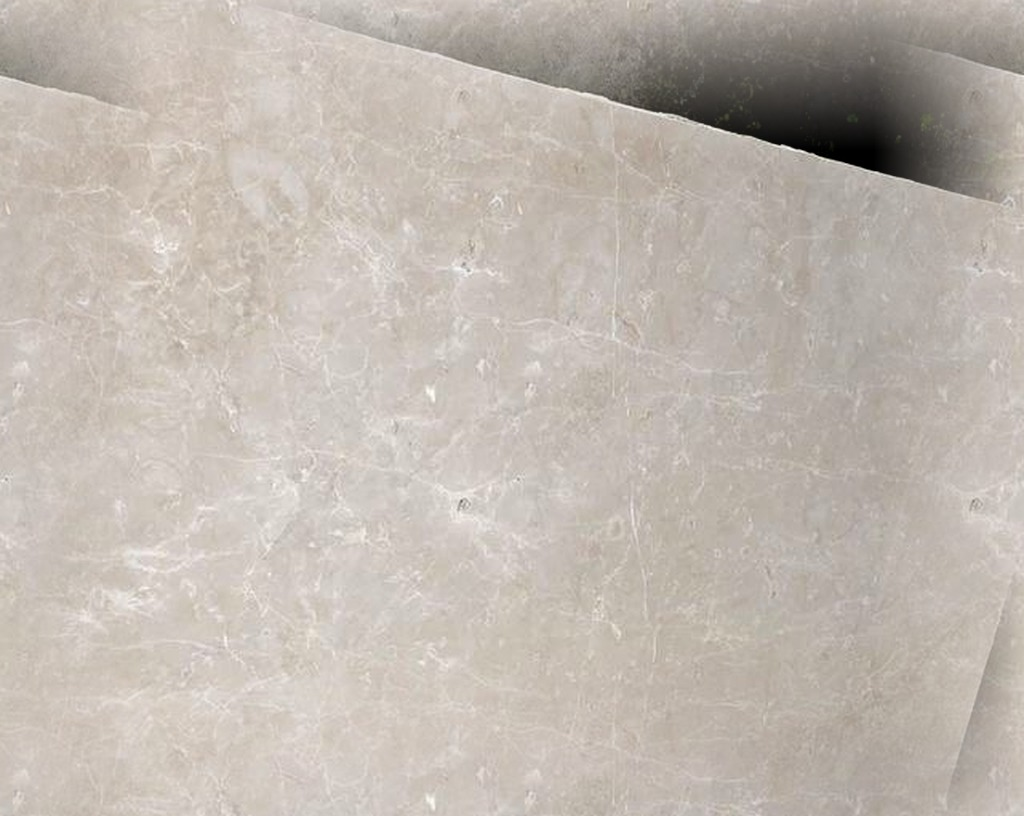
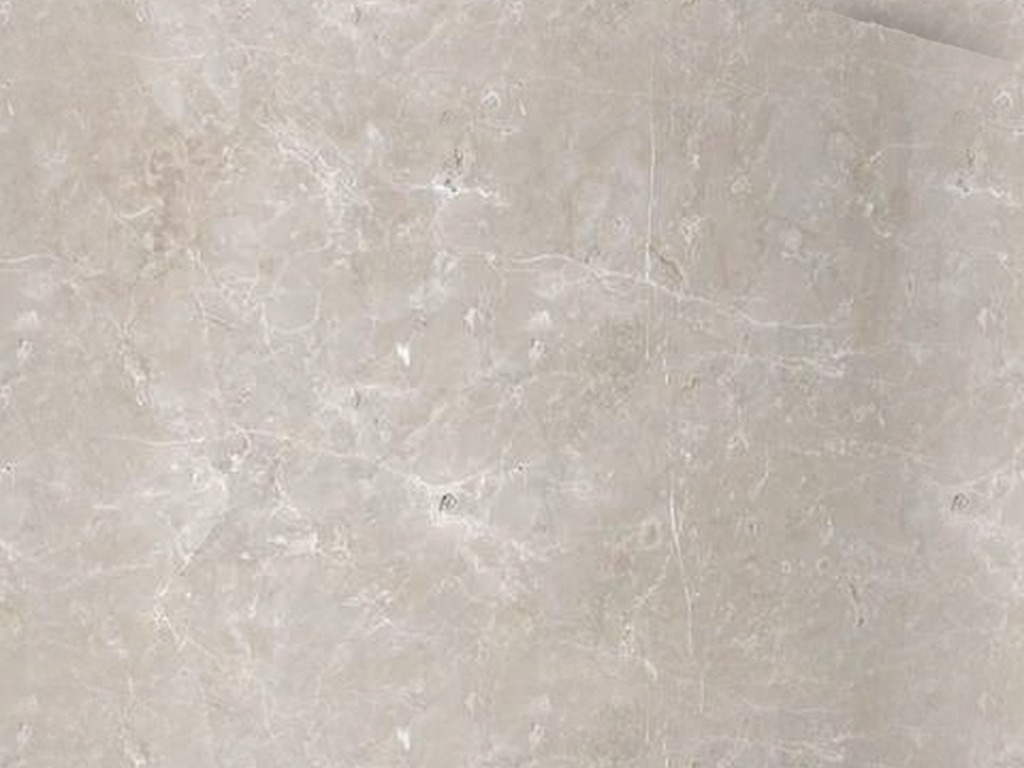
Walkthrough: the vanity as one stone block, the burl ends lower
Per the owner's reference: the 3 ft beige-gold bank is a single block
from the floor to the 33 in top, standing proud of the ends, its drawers
only fine joints; no marble elsewhere. The two ends are the dark burl,
3 in lower, with their own tops, floating over a shadow-gap kick. Vessel
bowl on the tap line, wall spout and mixer; a mirror (still to brief)
floating on a warm halo.

diff --git a/tools/walk/real.py b/tools/walk/real.py
@@ -349,28 +349,34 @@ tvf = dbox("tv_frame", cx - 622, yP + pT / 2 - 2, 842, cx + 622, yP + pT / 2 + 4
 # ── the bathroom, as far as it is known: its stone, and the vanity (scheme C, AST-DR-021) on the door wall,
 # between the door and the pier, facing into the room ─────────────────────────
 M_CHROME = flat("chrome", (0.9, 0.9, 0.92), 0.06, 1.0)
-M_BURL_DARK = veneer("burl_dark", 0.12, 1.0, 0.36, 0.9, "burl_diva.jpg", 0.75)                 # the 9292 burl, darkened
+M_BURL_DARK = veneer("burl_dark", 0.12, 1.0, 0.22, 0.75, "burl_diva.jpg", 0.75)                 # the 9292 burl, darkened
 for o_ in list(sc.objects):
     if o_.type == "MESH" and o_.name == "floor": pass
 bfl = dbox("bath_floor", BA["x0"], BA["s0"], 0.2, BA["x1"], BA["s1"], 1.2, M_BEIGE)
 pxr = BA["x1"] - PIER["east"]; pxl = pxr - PIER["w"]
 VX1 = pxl; VX0 = VX1 - 1524; VS1 = BA["s1"]; VS0 = VS1 - 610                            # 5 ft × 2 ft, against the pier
 TOPZ, SLAB = 838, 38
-# the ends: pull-outs in the dark burl, 1 ft 6 in at the pier end (the vanity's left, facing it) and 6 in at the door end
-for (x0_, x1_, nm) in ((VX1 - 457, VX1, "L"), (VX0, VX0 + 152, "R")):
-    e = dbox(f"van_end{nm}", x0_ + 2, VS0 + 25, 90, x1_ - 2, VS1, TOPZ - SLAB, M_BURL_DARK); bevel(e, 0.003, 2)
-    dbox(f"van_kick{nm}", x0_ + 2, VS0 + 70, 0, x1_ - 2, VS1, 90, M_DARK)
-    bpy.ops.mesh.primitive_cylinder_add(vertices=24, radius=0.02, depth=0.012, location=P((x0_ + x1_) / 2, VS0 + 22, TOPZ - SLAB - 120))
+# scheme C as the owner wants it read (their reference): the 3 ft marble bank is ONE stone block, floor to the
+# 33 in top, standing 20 proud of the ends; its drawers show only as fine joints. Marble nowhere else: the two ends
+# are the dark burl, 3 in lower, with their own veneer tops, floating over a shadow-gap kick.
+bx0, bx1 = VX1 - 457 - 914, VX1 - 457; AXx = bx0 + 457; BF = VS0 - 20                    # the block's front, proud
+blk = dbox("van_block", bx0, BF, 0, bx1, VS1, TOPZ, M_BEIGE); bevel(blk, 0.0025, 2)
+def joint(name, x0_, z0_, x1_, z1_):
+    dbox(name, x0_, BF - 0.6, z0_, x1_, BF + 2, z1_, M_DARK)
+joint("van_j_h1", bx0 + 18, 576, bx1 - 18, 578.5)                                          # over the big drawer
+joint("van_j_h2", bx0 + 18, 762, bx1 - 18, 764.5)                                          # under the top apron
+joint("van_j_h0", bx0 + 18, 38, bx1 - 18, 40.5)
+joint("van_j_v", AXx - 1.2, 578.5, AXx + 1.2, 762)                                         # the top pair splits on the tap line
+for xx in (bx0 + 18, bx1 - 20.5): joint(f"van_j_s{xx:.0f}", xx, 38, xx + 2.5, 764.5)
+ETOP = TOPZ - 76
+for (x0_, x1_, nm) in ((bx1, VX1, "L"), (VX0, bx0, "R")):                                  # 1 ft 6 at the pier end, 6 in at the door end
+    e = dbox(f"van_end{nm}", x0_ + 2, VS0, 150, x1_ - 2, VS1, ETOP - 22, M_BURL_DARK); bevel(e, 0.002, 2)
+    t_ = dbox(f"van_etop{nm}", x0_ + 2, VS0 - 4, ETOP - 22, x1_ - 2, VS1, ETOP, M_BURL_DARK); bevel(t_, 0.006, 4)
+    dbox(f"van_kick{nm}", x0_ + 2, VS0 + 90, 0, x1_ - 2, VS1, 150, M_DARK)
+    bpy.ops.mesh.primitive_cylinder_add(vertices=32, radius=0.018, depth=0.01, location=P((x0_ + x1_) / 2, VS0 - 3, ETOP - 110))
     cp = bpy.context.active_object; cp.rotation_euler = (math.pi / 2, 0, 0); setmat(cp, M_CHROME)            # cup pull
-# the 3 ft marble bank, floor to counter, centred on the faucet: two drawers over the big one, all marble fronts
-bx0, bx1 = VX1 - 457 - 914, VX1 - 457
-dbox("van_bank", bx0, VS0 + 25, 0, bx1, VS1, TOPZ - SLAB, M_BEIGE)
-AXx = bx0 + 457
-for (x0_, x1_, z0_, z1_) in ((bx0 + 20, AXx - 3, 591, 762), (AXx + 3, bx1 - 20, 591, 762), (bx0 + 20, bx1 - 20, 38, 566)):
-    f_ = dbox(f"van_df{x0_:.0f}{z0_}", x0_, VS0 + 22, z0_, x1_, VS0 + 26, z1_, M_BEIGE); bevel(f_, 0.002, 2)
-# the top: 18 slab on a sub-top, a mitred 38 apron, oversailing 1 in; the vessel bowl on the tap line; the wall spout
-top = dbox("van_top", VX0 - 5, VS0, TOPZ - SLAB, VX1, VS1, TOPZ, M_BEIGE); bevel(top, 0.004, 3)
-bpy.ops.mesh.primitive_uv_sphere_add(segments=64, ring_count=32, radius=0.203, location=P(AXx, VS0 + 290, TOPZ + 126))
+# the vessel bowl on the block, on the tap line; the wall spout over it
+bpy.ops.mesh.primitive_uv_sphere_add(segments=64, ring_count=32, radius=0.203, location=P(AXx, VS1 - 320, TOPZ + 126))
 bowl = bpy.context.active_object; bowl.name = "van_bowl"; bowl.scale = (1, 1, 0.62)
 bs_ = bmesh.new(); bs_.from_mesh(bowl.data)
 bmesh.ops.bisect_plane(bs_, geom=bs_.verts[:] + bs_.edges[:] + bs_.faces[:], plane_co=(0, 0, 0.05), plane_no=(0, 0, 1), clear_outer=True)
@@ -378,13 +384,23 @@ bs_.to_mesh(bowl.data); bs_.free()
 so_ = bowl.modifiers.new("t", "SOLIDIFY"); so_.thickness = 0.008
 for p_ in bowl.data.polygons: p_.use_smooth = True
 setmat(bowl, flat("ceramic", (0.93, 0.92, 0.89), 0.08, coat=0.6))
-sp = dbox("van_spout", AXx - 18, VS1 - 180, 1110, AXx + 18, VS1, 1140, M_CHROME); bevel(sp, 0.01, 4)
-dbox("van_spout_plate", AXx - 35, VS1 - 6, 1085, AXx + 35, VS1, 1165, M_CHROME)
+sp = dbox("van_spout", AXx - 12, VS1 - 170, 1150, AXx + 12, VS1, 1172, M_CHROME); bevel(sp, 0.008, 4)
+bpy.ops.mesh.primitive_cylinder_add(vertices=32, radius=0.03, depth=0.008, location=P(AXx, VS1 - 4, 1161))
+pl = bpy.context.active_object; pl.rotation_euler = (math.pi / 2, 0, 0); setmat(pl, M_CHROME)
+bpy.ops.mesh.primitive_cylinder_add(vertices=32, radius=0.025, depth=0.03, location=P(AXx + 130, VS1 - 15, 1161))
+hd_ = bpy.context.active_object; hd_.rotation_euler = (math.pi / 2, 0, 0); setmat(hd_, M_CHROME)            # the mixer
+# the mirror (still to brief): the block's width, floating off the wall, a warm light behind it
+mz0, mz1 = 1260, 2060
+dbox("van_mirror", bx0, VS1 - 30, mz0, bx1, VS1 - 24, mz1, M_MIRROR)
+ld = bpy.data.lights.new("van_halo", "AREA"); ld.size, ld.size_y = (bx1 - bx0 - 80) / 1000, 0.6; ld.shape = "RECTANGLE"; ld.energy = 30; warm(ld, 2700)
+lo = bpy.data.objects.new("van_halo", ld); sc.collection.objects.link(lo); lo.location = P(AXx, VS1 - 34, (mz0 + mz1) / 2); lo.rotation_euler = (math.radians(-90), 0, 0)
+lo.visible_camera = False; lo.visible_glossy = False
+ld = bpy.data.lights.new("van_under", "AREA"); ld.size, ld.size_y = (bx1 - bx0 - 40) / 1000, 0.02; ld.shape = "RECTANGLE"; ld.energy = 18; warm(ld, 2700)
+lo = bpy.data.objects.new("van_under", ld); sc.collection.objects.link(lo); lo.location = P(AXx, VS1 - 40, mz0 - 8)
+lo.visible_camera = False
 # the bathroom's light: soft, from the ceiling
 ld = bpy.data.lights.new("bath_ceiling", "AREA"); ld.size, ld.size_y = 1.2, 0.8; ld.shape = "RECTANGLE"; ld.energy = 120; warm(ld, 2900)
 lo = bpy.data.objects.new("bath_ceiling", ld); sc.collection.objects.link(lo); lo.location = P((BA["x0"] + BA["x1"]) / 2, (BA["s0"] + BA["s1"]) / 2, H - 20)
-ld = bpy.data.lights.new("van_light", "AREA"); ld.size, ld.size_y = 1.0, 0.1; ld.shape = "RECTANGLE"; ld.energy = 45; warm(ld, 2800)
-lo = bpy.data.objects.new("van_light", ld); sc.collection.objects.link(lo); lo.location = P(AXx, VS1 - 250, 2100)
 
 # ── left wall: the air conditioner, measured 3 ft 10 × 1 ft, on the painting's centre line ──
 acs = 2299
@@ -565,7 +581,7 @@ VIEWS = {  # name: camera (x, s[, z]), looking at (x, s, z)
     "right": ((700, 1800), (4547, 3300, 1300)),
     "bed": ((3300, 3350), (2100, 5766, 900)),
     "tvside": ((1100, 4250), (2337, 2450, 1100)),
-    "vanity": ((5500, 1350, 1500), (6600, 2500, 850)),
+    "vanity": ((6250, 1150, 1400), (6600, 2718, 950)),
     "door": ((2600, 3500), (-177, 5200, 1250)),
     "dress": ((4900, 4450), (8400, 4356, 1500)),
     "vault": ((5100, 4356, 1450), (7600, 4356, 3000)),
@@ -605,7 +621,7 @@ TOUR = [  # name, camera (x, s[, z]), looking at (x, s, z), hold frames, what ha
     (None, (6000, 4000), (5158, 2400, 1400), 0, None),
     ("d3", (5158, 3600), (5158, 1500, 1400), 34, "d3"),
     (None, (5158, 2250), (5300, 800, 1300), 0, None),
-    ("vanity", (5500, 1350, 1500), (6600, 2500, 850), 40, None),
+    ("vanity", (6250, 1150, 1400), (6600, 2718, 950), 40, None),
 ]
 FPM = float(os.environ.get("FPM", 15))                                # frames per metre walked: the scroll's pace
 def animate_real():
